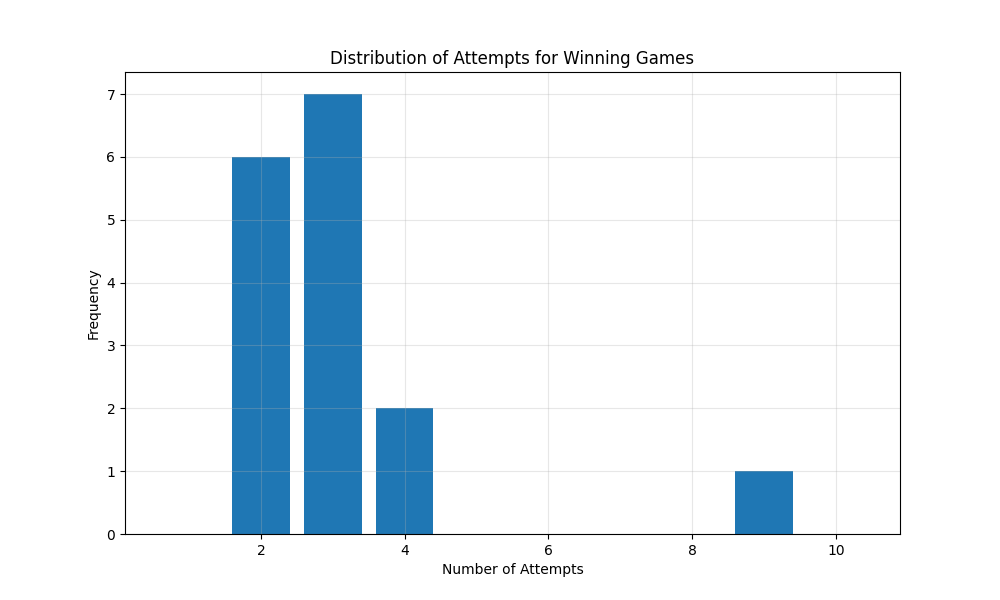
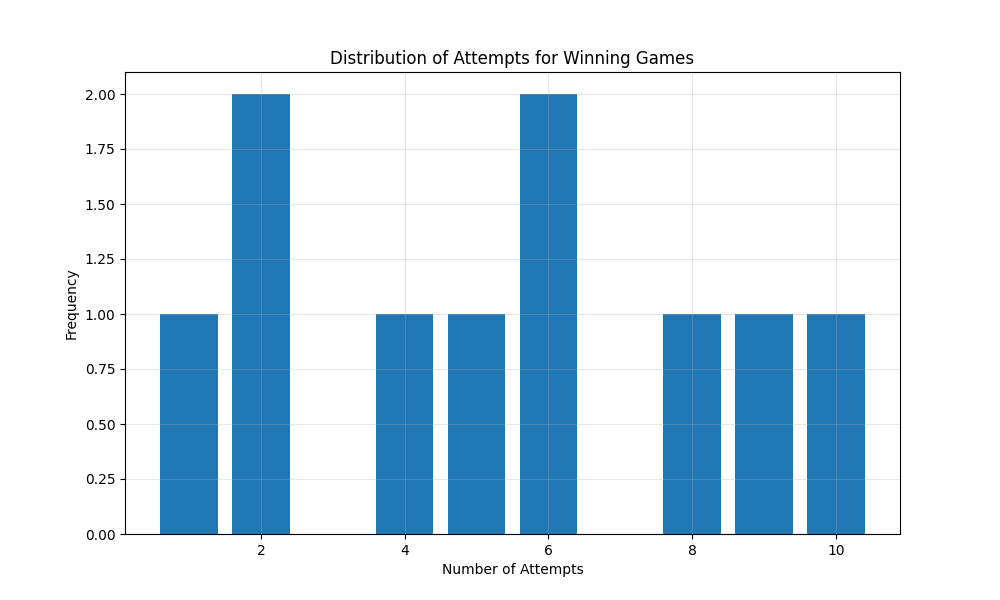
Implement multiple guessing strategies

diff --git a/mastermind_agent.py b/mastermind_agent.py
@@ -1,29 +1,44 @@
-from typing import List, Set, Tuple
+from abc import ABC, abstractmethod
+from typing import List, Set, Tuple, Optional
 import random
 from itertools import product
+from dataclasses import dataclass
 
 
-class Agent:
-    """An agent that plays the Mastermind game using a strategy."""
+@dataclass
+class GameFeedback:
+    """Feedback from a game move"""
+    correct_position: int
+    correct_digit: int
+
+
+class MastermindStrategy(ABC):
+    """Abstract base class for Mastermind solving strategies"""
+
+    @abstractmethod
+    def generate_next_code(self, previous_moves: List[List]) -> List[int]:
+        """Generate the next guess based on previous feedback.
+
+        Args:
+            previous_moves: List of previous moves and their feedback
+
+        Returns:
+            List[int]: Next guess
+        """
+        pass
+
+
+class KnuthStrategy(MastermindStrategy):
+    """Implementation of Knuth's five-guess algorithm"""
 
     def __init__(self):
-        """Initialize the agent with all possible codes."""
+        """Initialize the strategy with all possible codes."""
         self.possible_codes = list(product(range(1, 7), repeat=4))
         self.last_guess = None
         self.first_guess = True
 
-    def _get_feedback(
-        self, code: Tuple[int, ...], guess: Tuple[int, ...]
-    ) -> Tuple[int, int]:
-        """Calculate feedback for a guess against a code.
-
-        Args:
-            code: The code to compare against
-            guess: The guess to evaluate
-
-        Returns:
-            Tuple[int, int]: (correct positions, correct digits in wrong positions)
-        """
+    def _get_feedback(self, code: Tuple[int, ...], guess: Tuple[int, ...]) -> GameFeedback:
+        """Calculate feedback for a guess against a code."""
         correct_pos = sum(c == g for c, g in zip(code, guess))
 
         # Count correct digits regardless of position
@@ -31,38 +46,20 @@ class Agent:
         guess_counts = [guess.count(i) for i in range(1, 7)]
         correct_digits = sum(min(c, g) for c, g in zip(code_counts, guess_counts))
 
-        return correct_pos, correct_digits - correct_pos
+        return GameFeedback(correct_pos, correct_digits - correct_pos)
 
     def _is_consistent(
         self,
         code: Tuple[int, ...],
         guess: List[int],
-        correct_pos: int,
-        correct_digits: int,
+        feedback: GameFeedback,
     ) -> bool:
-        """Check if a code is consistent with the feedback from a guess.
+        """Check if a code is consistent with the feedback from a guess."""
+        move_feedback = self._get_feedback(code, tuple(guess))
+        return (move_feedback.correct_position == feedback.correct_position and 
+                move_feedback.correct_digit == feedback.correct_digit)
 
-        Args:
-            code: Code to check
-            guess: Previous guess
-            correct_pos: Number of correct positions from feedback
-            correct_digits: Number of correct digits in wrong positions from feedback
-
-        Returns:
-            bool: True if the code is consistent with the feedback
-        """
-        feedback = self._get_feedback(code, tuple(guess))
-        return feedback == (correct_pos, correct_digits)
-
-    def generate_next_code(self, state: List[List]) -> List[int]:
-        """Generate the next guess based on previous feedback.
-
-        Args:
-            state: Game state containing previous guesses and feedback
-
-        Returns:
-            List[int]: Next guess
-        """
+    def generate_next_code(self, previous_moves: List[List]) -> List[int]:
         if self.first_guess:
             # First guess is [1, 1, 2, 2] as it provides good information
             self.first_guess = False
@@ -71,7 +68,7 @@ class Agent:
 
         # Get the last non-empty state
         last_move = None
-        for move in state:
+        for move in previous_moves:
             if move[0] != [0, 0, 0, 0]:
                 last_move = move
                 break
@@ -80,14 +77,12 @@ class Agent:
             return list(random.choice(self.possible_codes))
 
         # Filter possible codes based on the feedback
-        guess = tuple(self.last_guess)
-        correct_pos = last_move[1]
-        correct_digits = last_move[2]
-
+        feedback = GameFeedback(correct_position=last_move[1], correct_digit=last_move[2])
+        
         self.possible_codes = [
             code
             for code in self.possible_codes
-            if self._is_consistent(code, self.last_guess, correct_pos, correct_digits)
+            if self._is_consistent(code, self.last_guess, feedback)
         ]
 
         if not self.possible_codes:
@@ -98,3 +93,64 @@ class Agent:
         next_guess = list(random.choice(self.possible_codes))
         self.last_guess = next_guess
         return next_guess
+
+
+class RandomStrategy(MastermindStrategy):
+    """Simple random guessing strategy"""
+
+    def generate_next_code(self, previous_moves: List[List]) -> List[int]:
+        """Generate a random code."""
+        return [random.randint(1, 6) for _ in range(4)]
+
+
+class SimpleStrategy(MastermindStrategy):
+    """A simple strategy that tries to find one correct position at a time"""
+
+    def __init__(self):
+        self.current_position = 0
+        self.found_positions = {}
+        self.current_digit = 1
+
+    def generate_next_code(self, previous_moves: List[List]) -> List[int]:
+        # Get last move's feedback
+        last_move = None
+        for move in previous_moves:
+            if move[0] != [0, 0, 0, 0]:
+                last_move = move
+                break
+
+        if last_move:
+            feedback = GameFeedback(correct_position=last_move[1], correct_digit=last_move[2])
+            if feedback.correct_position > len(self.found_positions):
+                # We found a correct position
+                self.found_positions[self.current_position] = self.current_digit
+                self.current_position += 1
+                self.current_digit = 1
+            else:
+                # Try next digit for current position
+                self.current_digit = (self.current_digit % 6) + 1
+
+        # Generate next guess
+        guess = [1] * 4  # Default values
+        for pos, digit in self.found_positions.items():
+            guess[pos] = digit
+        if self.current_position < 4:
+            guess[self.current_position] = self.current_digit
+
+        return guess
+
+
+class Agent:
+    """An agent that plays the Mastermind game using a configurable strategy."""
+
+    def __init__(self, strategy: Optional[MastermindStrategy] = None):
+        """Initialize the agent with a strategy.
+        
+        Args:
+            strategy: The strategy to use. Defaults to KnuthStrategy if None.
+        """
+        self.strategy = strategy or KnuthStrategy()
+
+    def generate_next_code(self, state: List[List]) -> List[int]:
+        """Generate the next guess using the current strategy."""
+        return self.strategy.generate_next_code(state)

diff --git a/mastermind_env.py b/mastermind_env.py
@@ -4,7 +4,8 @@ from typing import List, Optional
 import random
 import uuid
 import os
-from mastermind_agent import Agent
+from datetime import datetime
+from mastermind_agent import Agent, KnuthStrategy, RandomStrategy, SimpleStrategy
 
 
 @dataclass
@@ -45,13 +46,14 @@ class GamePersistence:
             os.makedirs(directory)
 
     def save_game(self, game_id: str, state: GameState) -> None:
-        filepath = os.path.join(self.directory, f"{game_id}.txt")
+        timestamp = datetime.now().strftime("%Y%m%d%H%M")
+        filepath = os.path.join(self.directory, f"{timestamp}_{game_id}.txt")
         try:
             with open(filepath, "w") as f:
                 for move in state.moves:
                     flat_move = self._flatten_list(move)
-                    f.write(f"{', '.join(map(str, flat_move))}\n")
-                f.write(", ".join(map(str, state.secret_code)))
+                    f.write(f"{' | '.join(map(str, flat_move))}\n")
+                f.write(" | ".join(map(str, state.secret_code)))
         except IOError as e:
             print(f"Error saving game state: {e}")
 
@@ -159,13 +161,29 @@ class Mastermind(GameInterface):
                 flat_move = self.persistence._flatten_list(move)
                 print(flat_move)
 
-    def game(self) -> bool:
+    def game(self, strategy_name: str = "knuth") -> bool:
         """Run the game loop.
+
+        Args:
+            strategy_name: The name of the strategy to use. Options are:
+                - "knuth": Knuth's five-guess algorithm (default)
+                - "random": Random guessing strategy
+                - "simple": Simple position-by-position strategy
 
         Returns:
             bool: True if the player won, False otherwise
         """
-        my_agent = Agent()
+        # Create the agent with the selected strategy
+        strategy_map = {
+            "knuth": None,  # None will use the default KnuthStrategy
+            "random": RandomStrategy(),
+            "simple": SimpleStrategy()
+        }
+
+        if strategy_name not in strategy_map:
+            raise ValueError(f"Invalid strategy name. Options are: {list(strategy_map.keys())}")
+
+        my_agent = Agent(strategy=strategy_map[strategy_name])
 
         while not self.is_game_over():
             try:
@@ -180,5 +198,20 @@ class Mastermind(GameInterface):
 
 
 if __name__ == "__main__":
-    game = Mastermind()
-    game.game()
+    # Example of running the game with different strategies
+    strategies = ["knuth", "random", "simple"]
+    results = {}
+
+    for strategy in strategies:
+        game = Mastermind()
+        won = game.game(strategy)
+        results[strategy] = {
+            "won": won,
+            "attempts": game.state.attempts
+        }
+
+    # Print results
+    print("\nResults for different strategies:")
+    for strategy, result in results.items():
+        status = "Won" if result["won"] else "Lost"
+        print(f"{strategy.capitalize()}: {status} in {result['attempts']} attempts")

diff --git a/test_mastermind_env.py b/test_mastermind_env.py
@@ -72,17 +72,6 @@ def test_print_state(game):
     game.print_state(debug=True)
 
 
-# Tests para casos límite
-def test_repeated_digits_in_guess(game):
-    """Test feedback when guess contains repeated digits"""
-    feedback = game.make_move([1, 1, 1, 1])
-    assert feedback == Feedback(correct_position=1, correct_digit=0)
-
-    game.state.attempts = 0  # Reset attempts for next test
-    feedback = game.make_move([2, 2, 2, 2])
-    assert feedback == Feedback(correct_position=0, correct_digit=1)
-
-
 def test_invalid_guess_length():
     """Test handling of guesses with invalid length"""
     game = Mastermind()

diff --git a/play.py b/play.py
@@ -18,7 +18,7 @@ def run_games(num_games: int = 1000) -> List[Dict]:
 
     for _ in tqdm(range(num_games), desc="Playing games"):
         game = Mastermind()
-        won = game.game()
+        won = game.game("random")
 
         stats.append(
             {"won": won, "attempts": game.state.attempts, "game_id": game.game_id}
